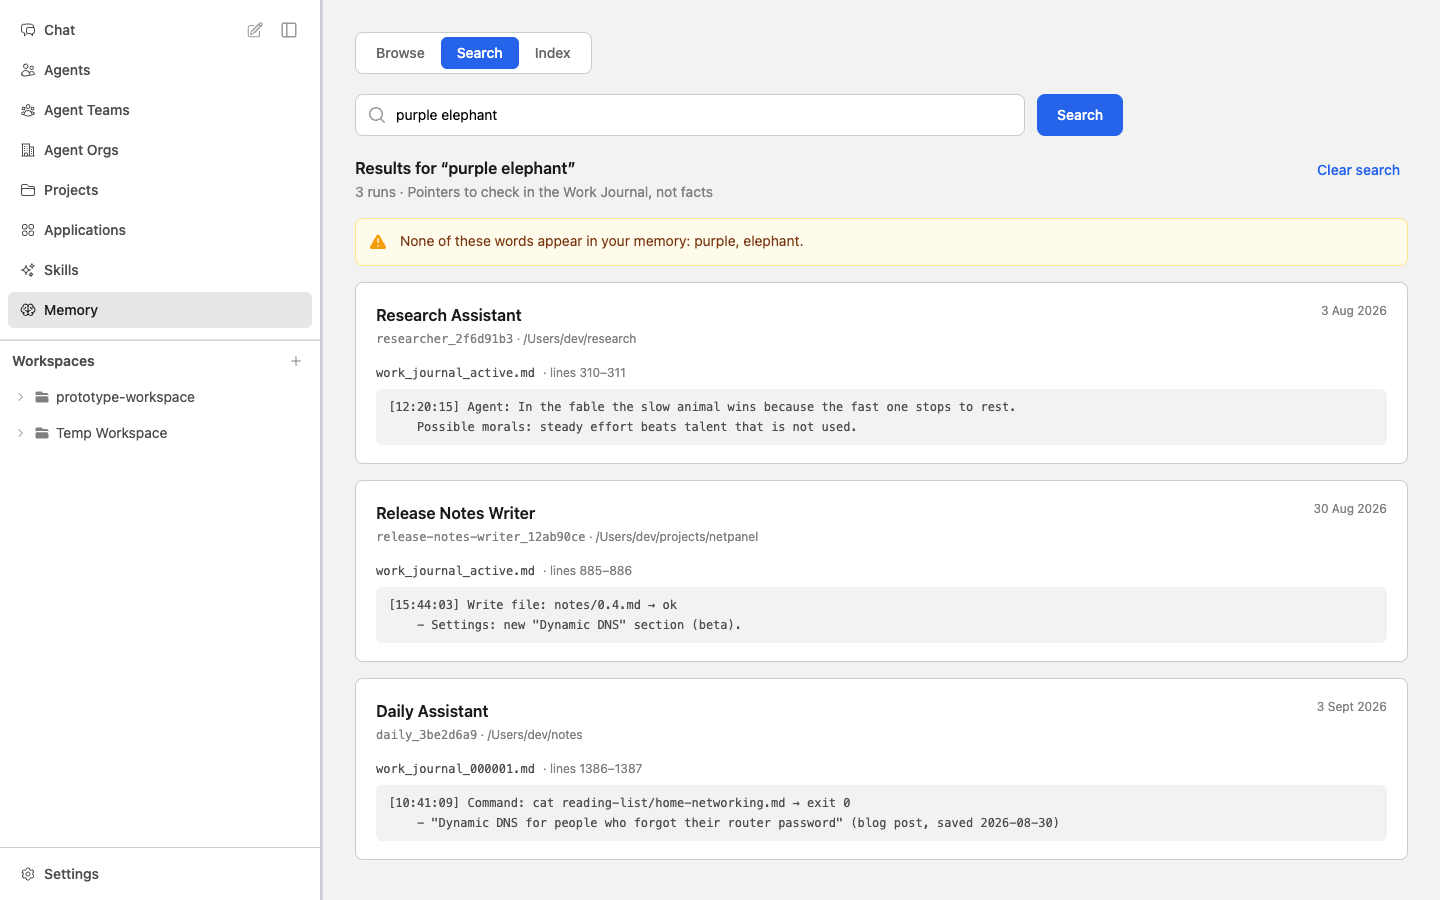
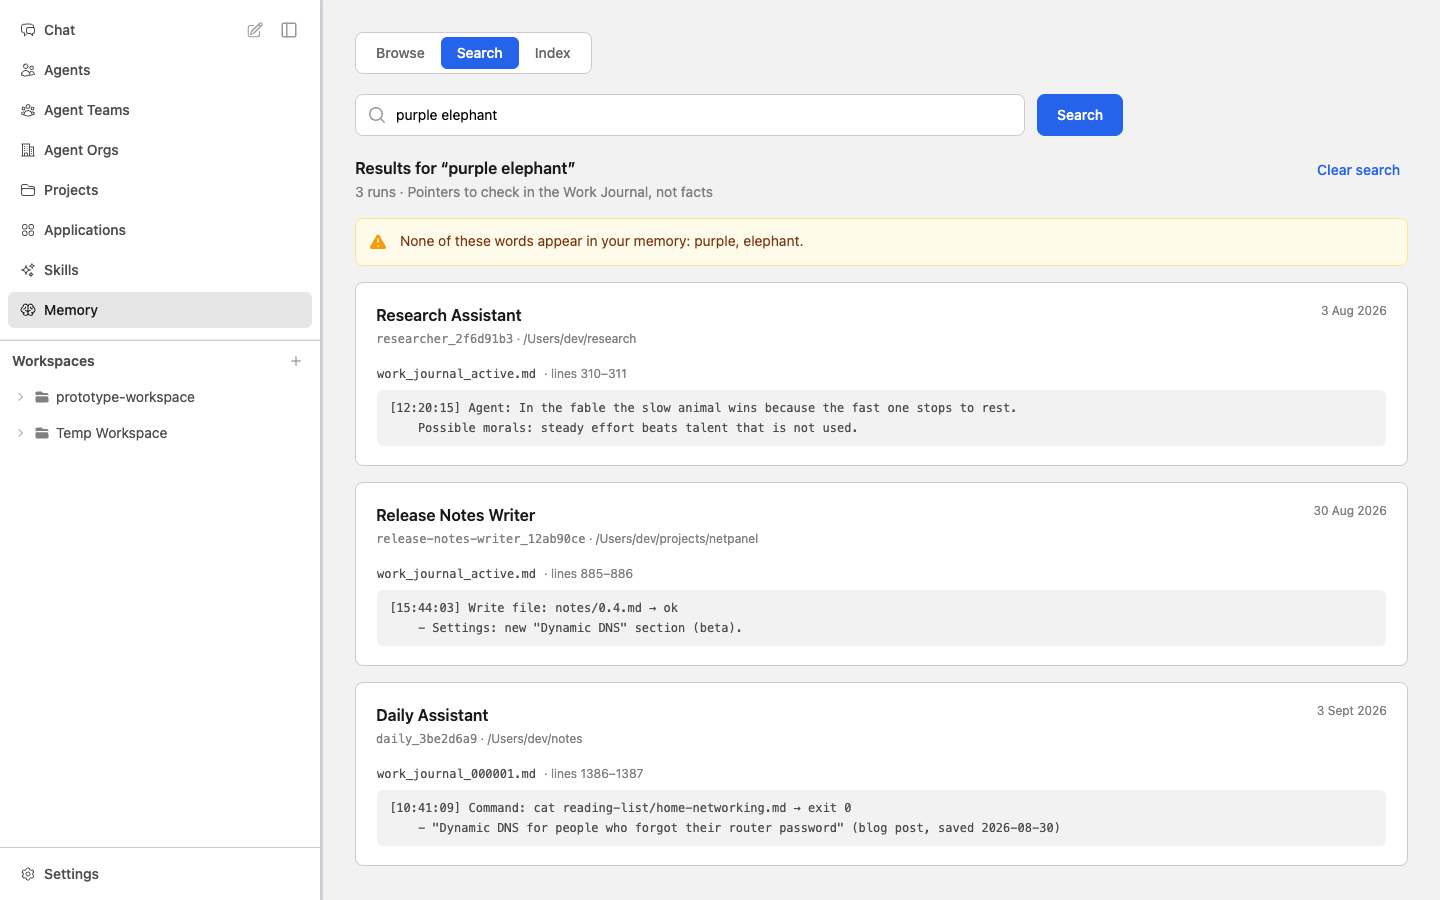
design(work-journal-search): no Open button on a match; hover state shows it is clickable; VIS recaptured

diff --git a/components/memory/MemorySearchResults.vue b/components/memory/MemorySearchResults.vue
@@ -43,17 +43,16 @@
           </button>
           <ul class="space-y-1 px-2 pb-2">
             <li v-for="match in result.matches" :key="`${match.file}:${match.fromLine}`">
-              <button type="button" class="group block w-full rounded-md px-3 py-2.5 text-left transition hover:bg-gray-50 focus:outline-none focus-visible:ring-2 focus-visible:ring-inset focus-visible:ring-blue-500" data-test="memory-match" @click="$emit('open', result, match)">
+              <button type="button" class="group block w-full cursor-pointer rounded-md border border-transparent px-3 py-2.5 text-left transition hover:border-gray-200 hover:bg-gray-50 focus:outline-none focus-visible:ring-2 focus-visible:ring-inset focus-visible:ring-blue-500" data-test="memory-match" @click="$emit('open', result, match)">
                 <div class="flex flex-wrap items-center gap-x-2 gap-y-1 text-xs text-gray-500">
                   <span class="font-mono text-gray-700">{{ match.file }}</span>
                   <span>· {{ $t('memory.results.lines', { from: match.fromLine, to: match.toLine }) }}</span>
                   <span v-if="showMatchDay(result, match)">· {{ formatDay(match.day) }}</span>
                   <span class="ml-auto flex min-w-0 max-w-full items-center gap-2">
-                    <span class="flex-shrink-0 text-xs font-medium text-blue-600 opacity-0 transition group-hover:opacity-100 group-focus-visible:opacity-100">{{ $t('memory.results.open') }} →</span>
                     <span v-if="match.kind === 'text'" class="min-w-0 rounded-full border border-gray-200 px-2 py-0.5 text-[11px] font-medium text-gray-600" data-test="memory-match-words">{{ $t('memory.results.words_label', { words: match.matchedWords.join($t('memory.results.word_separator')) }) }}</span>
                   </span>
                 </div>
-                <div class="mt-2 rounded-md bg-gray-50 px-3 py-2 font-mono text-xs leading-5 text-gray-700 group-hover:bg-white" data-test="memory-snippet"><div v-for="(line, i) in match.snippet" :key="i" class="truncate whitespace-pre">{{ line }}</div></div>
+                <div class="mt-2 rounded-md bg-gray-50 px-3 py-2 font-mono text-xs leading-5 text-gray-700 group-hover:bg-white group-hover:ring-1 group-hover:ring-gray-200" data-test="memory-snippet"><div v-for="(line, i) in match.snippet" :key="i" class="truncate whitespace-pre">{{ line }}</div></div>
               </button>
             </li>
           </ul>

diff --git a/localization/messages/zh-CN/memory.ts b/localization/messages/zh-CN/memory.ts
@@ -101,7 +101,6 @@ const memoryMessages = {
   'memory.results.word_separator': '、',
   'memory.results.none_found': '你的记忆中没有出现这些词：{{words}}。',
   'memory.results.some_not_found': '你的记忆中未找到：{{words}}。',
-  'memory.results.open': '打开',
 } satisfies TranslationCatalog;
 
 export default memoryMessages;

diff --git a/localization/messages/en/memory.ts b/localization/messages/en/memory.ts
@@ -101,7 +101,6 @@ const memoryMessages = {
   'memory.results.word_separator': ', ',
   'memory.results.none_found': 'None of these words appear in your memory: {{words}}.',
   'memory.results.some_not_found': 'Not found in your memory: {{words}}.',
-  'memory.results.open': 'Open',
 } satisfies TranslationCatalog;
 
 export default memoryMessages;

diff --git a/tickets/in-progress/work-journal-search/ui-ux-spec.md b/tickets/in-progress/work-journal-search/ui-ux-spec.md
@@ -80,7 +80,7 @@ Canonical contract for the Memory page of AutoByteus Web: memory search, the mem
 - **Color values and semantic roles.** Primary action and active tab `#2563eb` (hover `#1d4ed8`), text white. Borders `#e5e7eb`; hover border `#d1d5db`. Text `#111827` (title), `#4b5563`/`#6b7280` (secondary). Done / success `#10b981` icon, `#34d399` bar. Running `#2563eb` (card border `#93c5fd`). Failed `#ef4444` icon, `#f87171` bar, card border `#fca5a5`, message `#dc2626`. Attention amber (`#fffbeb` fill, `#fde68a` border, `#78350f` text). Task team indigo (`#a5b4fc` dashed border, `#4338ca` text). Matched journal lines `#fffbeb` with gutter `#fef3c7`, border `#fcd34d`, number `#92400e`.
 - **Surfaces, borders, radii, shadows, elevation, and layering.** Cards: white, 1 px `#e5e7eb`, radius 8 px, no resting shadow; hover: border `#d1d5db` and a medium soft shadow. Segmented control: white, 1 px border, radius 8 px, padding 4 px; segments radius 6 px. Banners: 1 px border, radius 8 px. Step connectors: 24 px white circle, 1 px `#e5e7eb`, arrow icon `#9ca3af`, centred on the gap between cards (from 1280 px only).
 - **Controls, icons, imagery, and media assets.** Heroicons 20 solid (search, check-circle, exclamation-circle, exclamation-triangle, arrow-right, user-group, chevron) and the `svg-spinners:ring-resize` spinner, from the product's offline icon collection. No imagery.
-- **Hover, active, focus, selected, disabled, validation, and feedback treatment.** Focus: 2 px blue-500 ring (inputs: blue-500 border plus a 2 px blue-100 ring). Selected tab: blue fill, white text. Disabled: 50 % opacity, `not-allowed` cursor (Search before the index can answer; Rebuild during a build, with a tooltip). Selected file in the journal rail: `#eff6ff` fill, `#93c5fd` border.
+- **Hover, active, focus, selected, disabled, validation, and feedback treatment.** A result match is clickable as a whole: on hover it gets a 1 px `#e5e7eb` border, a `#f9fafb` background and a white snippet with a 1 px `#e5e7eb` ring; the pointer is a hand; keyboard focus shows the 2 px blue ring. There is no "Open" button or link on a match. Focus: 2 px blue-500 ring (inputs: blue-500 border plus a 2 px blue-100 ring). Selected tab: blue fill, white text. Disabled: 50 % opacity, `not-allowed` cursor (Search before the index can answer; Rebuild during a build, with a tooltip). Selected file in the journal rail: `#eff6ff` fill, `#93c5fd` border.
 
 ### New Or Changed Components
 
@@ -181,7 +181,7 @@ Canonical contract for the Memory page of AutoByteus Web: memory search, the mem
 ## Content, Labels, Validation, And Feedback
 
 - **Voice and wording.** Plain, short, no repeated words. Domain words: **memory**, **memory search**, **memory index**, **Work Journal**, **Raw traces**; the old words "Episodic" and "Semantic" appear nowhere (tabs, badges, strings, docs). Dates follow the browser locale.
-- **Exact labels.** Tabs: `Browse`, `Search`, `Index`. Browse sub-tabs: `Agents`, `Agent Teams`, `Agent Orgs`. Filter placeholders: `Filter agents by name or run ID…`, `Filter agent teams by name…`, `Filter agent orgs by name…`, `Filter runs by title or run ID…`. Search: `Search`, `Clear search`, `Retry`, `View the index`. Pipeline: `Find runs — Every run folder on this node`; `Journals — Each run’s Work Journal made current`; `Text index — Search by words works from here`; `Search by meaning, in the background` (Meaning index); step counts `X of Y runs|journal files · P%`; `Waiting`. Actions: `Index now`, `Try again`, `Rebuild`, `Cancel`. Match: `Words: <found words>` (text match only; separator `, `, in zh-CN `、`; a meaning match carries no label); notes `None of these words appear in your memory: <words>.` and `Not found in your memory: <words>.`; `lines a–b`; `Open →` (shown on hover or keyboard focus of a match); `<day>` / `<first> – <latest>` (no "Mentioned" prefix). Journal: `Files`, `Active`, `Matched lines`, `Jump to day`, `Go to line`, `Go`, `Show 300 earlier lines`, `Show 300 later lines`, `<n> not shown`, `Lines a–b of N`, `From your search “<cue>”`, `Match 1`. Run detail tabs: `Work Journal`, `Raw Traces`. Exceptions note: `No Work Journal`, `No Raw traces`, `Archive`. Embedding note: `The Meaning index uses the embedding model chosen in Server Settings → Embedding (<model>).` with the link `Embedding settings` (to Server Settings → Embedding).
+- **Exact labels.** Tabs: `Browse`, `Search`, `Index`. Browse sub-tabs: `Agents`, `Agent Teams`, `Agent Orgs`. Filter placeholders: `Filter agents by name or run ID…`, `Filter agent teams by name…`, `Filter agent orgs by name…`, `Filter runs by title or run ID…`. Search: `Search`, `Clear search`, `Retry`, `View the index`. Pipeline: `Find runs — Every run folder on this node`; `Journals — Each run’s Work Journal made current`; `Text index — Search by words works from here`; `Search by meaning, in the background` (Meaning index); step counts `X of Y runs|journal files · P%`; `Waiting`. Actions: `Index now`, `Try again`, `Rebuild`, `Cancel`. Match: `Words: <found words>` (text match only; separator `, `, in zh-CN `、`; a meaning match carries no label); notes `None of these words appear in your memory: <words>.` and `Not found in your memory: <words>.`; `lines a–b`; no separate open button: the whole match is the click target; `<day>` / `<first> – <latest>` (no "Mentioned" prefix). Journal: `Files`, `Active`, `Matched lines`, `Jump to day`, `Go to line`, `Go`, `Show 300 earlier lines`, `Show 300 later lines`, `<n> not shown`, `Lines a–b of N`, `From your search “<cue>”`, `Match 1`. Run detail tabs: `Work Journal`, `Raw Traces`. Exceptions note: `No Work Journal`, `No Raw traces`, `Archive`. Embedding note: `The Meaning index uses the embedding model chosen in Server Settings → Embedding (<model>).` with the link `Embedding settings` (to Server Settings → Embedding).
 - **Empty, error, and recovery messages.** As in State Behavior. The full English and Chinese (zh-CN) strings are in `localization/messages/{en,zh-CN}/memory.ts`.
 
 ### Form And Input Validation
@@ -241,7 +241,7 @@ All images are real browser screenshots at the stated viewport, taken through th
 | VIS-003 | UIS-005 Agent detail | 1440×900 | `visual-references/VIS-003-browse-agent-runs-desktop-1440x900.png` | Back link, name heading, filter, run cards (a retired agent named as recorded) | Run titles ("hello" included), IDs, paths, dates |
 | VIS-004 | UIS-006 Team detail (task team) | 1440×900 | `visual-references/VIS-004-browse-team-runs-task-team-desktop-1440x900.png` | Run cards with member chips, no "Members" label | Names, IDs, dates |
 | VIS-005 | UIS-003 Search, empty | 1440×900 | `visual-references/VIS-005-search-empty-centered-desktop-1440x900.png` | Centred box and button, placeholder | — |
-| VIS-006 | UXJ-002 Search results (text matches with found words) | 1440×900 | `visual-references/VIS-006-search-results-desktop-1440x900.png` | Result card anatomy, the `Words: …` label of each match, snippet, "Open →" on hover; no grade | Cue, agent, IDs, paths, IP and domain, snippets, days |
+| VIS-006 | UXJ-002 Search results (text matches with found words) | 1440×900 | `visual-references/VIS-006-search-results-desktop-1440x900.png` | Result card anatomy, the `Words: …` label of each match, snippet; no grade and no open button | Cue, agent, IDs, paths, IP and domain, snippets, days |
 | VIS-007 | UXJ-003 None of the search words found | 1440×900 | `visual-references/VIS-007-search-none-of-the-words-found-desktop-1440x900.png` | Amber note and copy; matches without a `Words:` label | Cue and results |
 | VIS-008 | UXJ-003 Partial coverage (Meaning index running) | 1440×900 | `visual-references/VIS-008-search-results-partial-coverage-desktop-1440x900.png` | Blue coverage note and copy; tab badge with percent | Percentages |
 | VIS-009 | UXJ-003 Search failed | 1440×900 | `visual-references/VIS-009-search-error-desktop-1440x900.png` | Red note with Retry, Clear search | — |

diff --git a/tickets/in-progress/work-journal-search/design-review-notes.md b/tickets/in-progress/work-journal-search/design-review-notes.md
@@ -76,4 +76,4 @@ Requested by the Solution Designer on the user's decision (embedding scores cann
 - The Work Journal banner says the same (`lines a–b · Words: ddns, home`; nothing extra for a meaning match).
 - The scripted reference derives each match's kind and words from its snippet and computes the missing words from the invented journals, so the facts are consistent. Cues: `purple elephant` (none found), `ddns updater cloudflare` (some not found).
 - Recaptured: VIS-006, 007, 008, 017, 022, 024; new: VIS-025, VIS-026. All others are unchanged.
-- Card tidying (the user, 2026-10-27: "make the UI a bit clean"): the amber note is only `None of these words appear in your memory: <words>.`; no "Mentioned" prefix on the date; the run ID and workspace share one line; a match shows its own day only when the card's date does not already say it; `Open →` appears only on hover or focus; the result subtitle reads `N runs · Pointers to check in the Work Journal, not facts`.
+- Card tidying (the user, 2026-10-27: "make the UI a bit clean"): the amber note is only `None of these words appear in your memory: <words>.`; no "Mentioned" prefix on the date; the run ID and workspace share one line; a match shows its own day only when the card's date does not already say it; no Open button: a hovered match lifts (border, soft background, white snippet) to show it is clickable; the result subtitle reads `N runs · Pointers to check in the Work Journal, not facts`.
